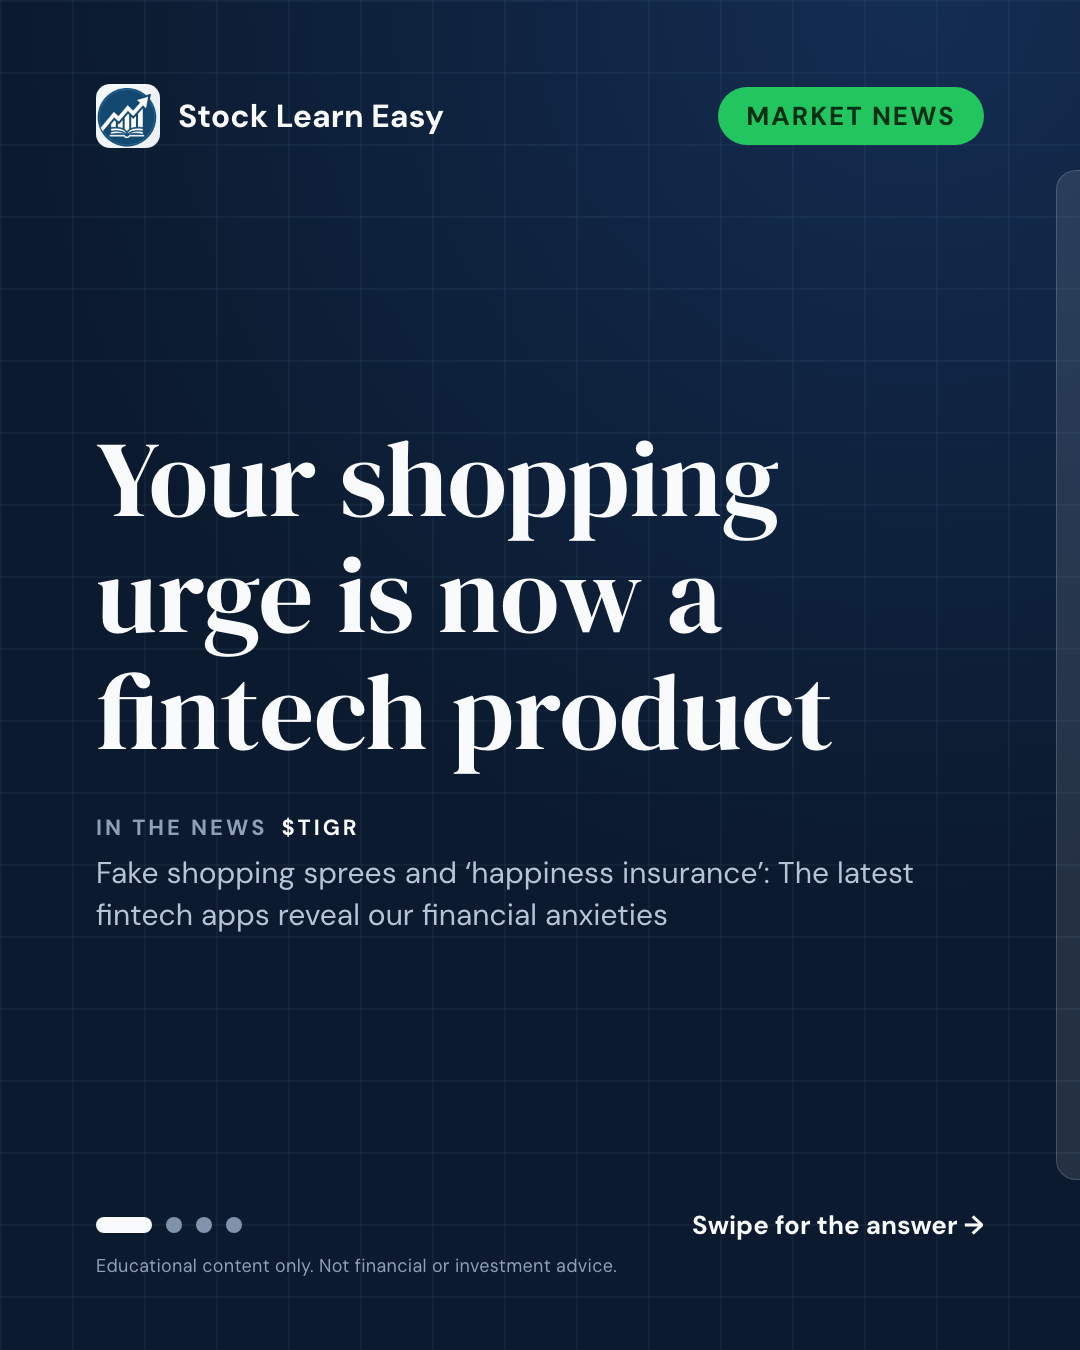
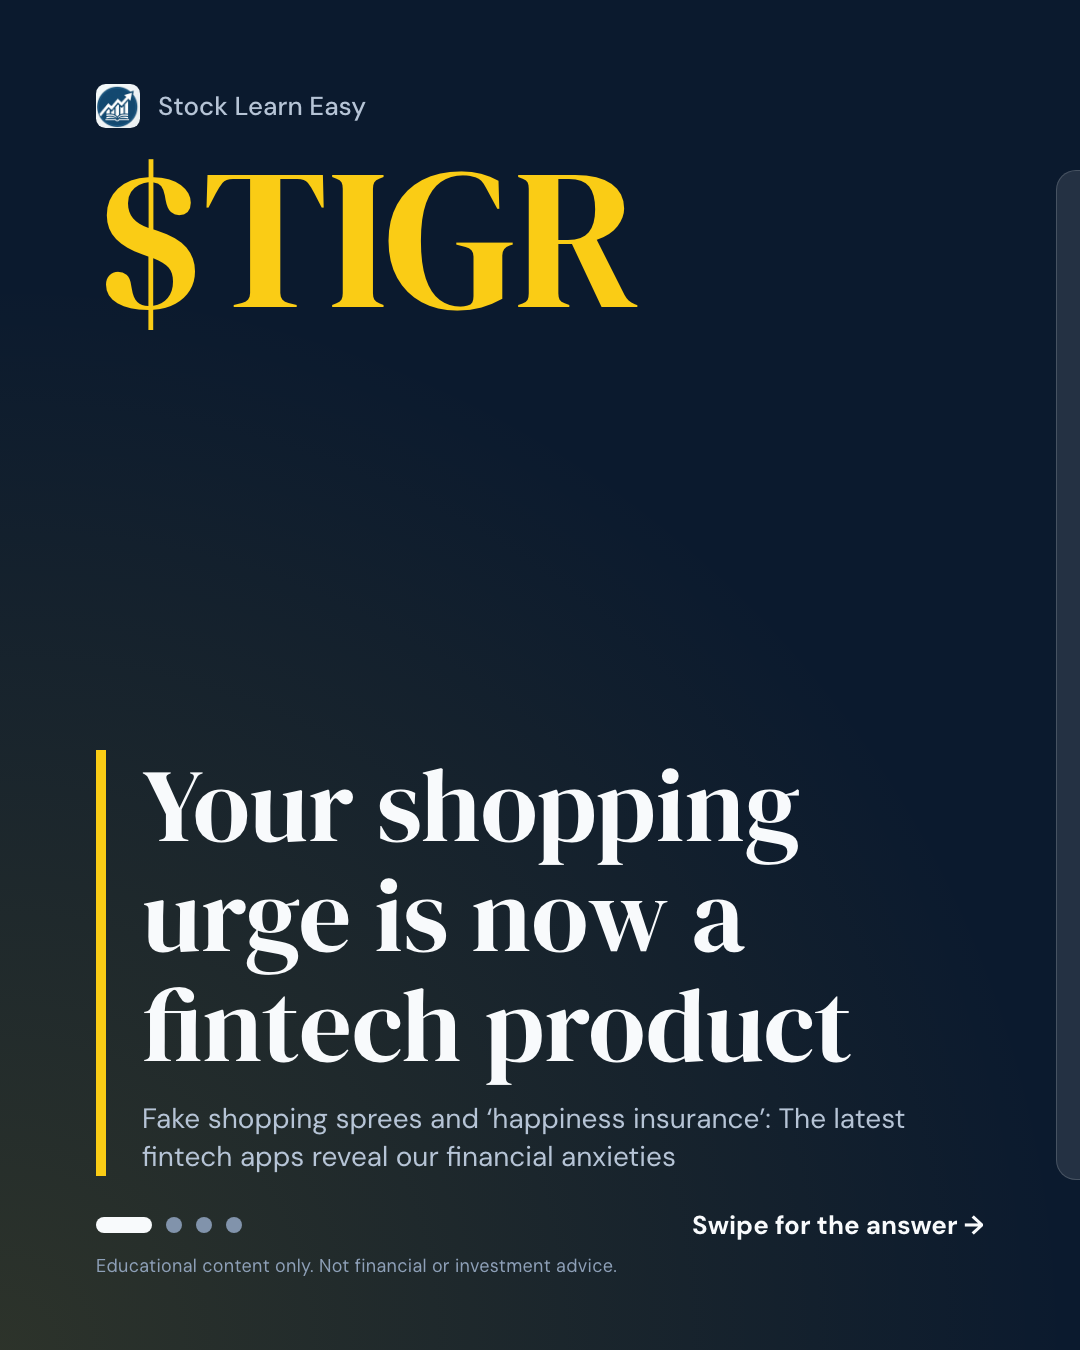
Items 54, 59, 60, 61: template B cover, loop seam, neural voice; card gate accepts both feed sizes

diff --git a/reel.py b/reel.py
@@ -23,6 +23,7 @@ Everything degrades safely: if ffmpeg, Chrome or `say` is missing the
 build raises and the caller falls back to publishing the carousel.
 """
 import json
+import re
 import shutil
 import subprocess
 import sys
@@ -43,7 +44,7 @@ VOICE_RATE = 178          # words per minute; 180ish reads as brisk, not rushed
 VOICE_ENABLED = True
 
 SCENE_MIN_SECONDS = 2.6
-SCENE_MAX_SECONDS = 11.0
+SCENE_MAX_SECONDS = 15.0   # was 11; Kokoro reads a 200-char explain in 12-13s and the cap cut it mid-sentence
 SCENE_TAIL_SECONDS = 0.65  # beat of silence after the line, before the cut
 REEL_MAX_SECONDS = 62.0    # hard ceiling; Instagram allows far more, attention doesn't
 
@@ -253,7 +254,41 @@ def render_frame(html: str, png_path: Path):
 
 # --- audio -------------------------------------------------------------------
 
-def say_to_file(text: str, out_path: Path):
+# Item 61, 18.10.2026: the voice is Kokoro (say-neural.py), the same local
+# neural voice the hand-built episode reels use, and those are the account's
+# best performers (median reach 25 against 4 for news reels; anecdote, not a
+# test). The compact `say` voice is audibly synthetic, which is the fastest
+# tell that a reel was machine-made. `say` stays as the fallback, so a broken
+# Kokoro install costs voice quality, never the reel.
+NEURAL = Path.home() / ".local/bin/say-neural.py"
+NEURAL_VOICE = "af_heart"
+NEURAL_SPEED = "1.08"
+
+
+# Kokoro spells short month names letter by letter ("O-C-T 2023"), which
+# `say` never did. The copy uses them to stay under its length caps.
+_MONTHS = {"Jan": "January", "Feb": "February", "Mar": "March", "Apr": "April",
+           "Jun": "June", "Jul": "July", "Aug": "August", "Sep": "September",
+           "Sept": "September", "Oct": "October", "Nov": "November", "Dec": "December"}
+_MONTH_RE = re.compile(r"\b(" + "|".join(_MONTHS) + r")\.?(?=\s+\d)")
+
+
+def spoken(text: str) -> str:
+    return _MONTH_RE.sub(lambda m: _MONTHS[m.group(1)], text)
+
+
+def say_to_file(text: str, out_path: Path) -> str:
+    """Write the line to out_path. Returns the voice that was used."""
+    text = spoken(text)
+    if NEURAL.exists():
+        try:
+            subprocess.run([str(NEURAL), "--voice", NEURAL_VOICE, "--speed", NEURAL_SPEED,
+                            "--", text, str(out_path)],
+                           check=True, capture_output=True, timeout=180)
+            if out_path.is_file() and out_path.stat().st_size >= 1000:
+                return f"kokoro:{NEURAL_VOICE}"
+        except Exception as e:
+            print(f"neural voice failed, falling back to say: {e}", file=sys.stderr)
     subprocess.run(
         # WAV + signed 16-bit little-endian: `say` refuses float formats in an
         # AIFF container ("Opening output file failed: fmt?"), and 44.1kHz here
@@ -264,6 +299,7 @@ def say_to_file(text: str, out_path: Path):
     )
     if not out_path.is_file() or out_path.stat().st_size < 1000:
         raise ReelError("voiceover produced no audio")
+    return VOICE
 
 
 def audio_seconds(path: Path) -> float:
@@ -362,6 +398,7 @@ def build_reel(out_dir: Path, category, copy, when_utc,
     with tempfile.TemporaryDirectory(prefix="slei-reel-") as tmp:
         work = Path(tmp)
         clips, total = [], 0.0
+        voices_used = set()
 
         for index, scene in enumerate(scenes):
             png = work / f"scene_{index}.png"
@@ -371,7 +408,7 @@ def build_reel(out_dir: Path, category, copy, when_utc,
             seconds = SCENE_MIN_SECONDS
             if VOICE_ENABLED and scene.get("say"):
                 audio = work / f"scene_{index}.wav"
-                say_to_file(scene["say"], audio)
+                voices_used.add(say_to_file(scene["say"], audio))
                 seconds = audio_seconds(audio) + SCENE_TAIL_SECONDS
 
             seconds = min(max(seconds, SCENE_MIN_SECONDS), SCENE_MAX_SECONDS)
@@ -392,10 +429,16 @@ def build_reel(out_dir: Path, category, copy, when_utc,
 
             # No fade-in on the first scene either: frame 0 is what a scrolling
             # viewer sees, and a black frame is a reason to keep scrolling.
+            # Item 60, 18.10.2026: Instagram loops a reel, and the last scene
+            # used to fade to black, so every replay started with a black
+            # frame and a jump into the lit hook, which reads as "it ended".
+            # The last scene now has no fade and always pulls out, so it ends
+            # at zoom 1.0, exactly where the hook scene's push-in begins. The
+            # seam is one clean cut at the same scale.
+            last = index == len(scenes) - 1
             clip = work / f"clip_{index}.mp4"
             build_scene_clip(png, audio, seconds, clip,
-                             push_in=(index % 2 == 0),
-                             fade_out=(index == len(scenes) - 1))
+                             push_in=(index % 2 == 0) and not last)
             clips.append(clip)
             total += seconds
 
@@ -410,7 +453,7 @@ def build_reel(out_dir: Path, category, copy, when_utc,
         json.dumps({
             "duration_seconds": round(duration, 2),
             "scenes": [s["kind"] for s in scenes][:len(clips)],
-            "voice": VOICE if VOICE_ENABLED else None,
+            "voice": ", ".join(sorted(voices_used)) or None,
             "size_bytes": out_path.stat().st_size,
             "cover": "cover.jpg",
             "variant": "short" if short else "full",

diff --git a/generate.py b/generate.py
@@ -706,6 +706,22 @@ def wants_chart_first(slot, chart):
     return bool(chart) and slot is not None and slot.weekday() == 0 and slot.hour >= 15
 
 
+# Backlog item 54 (18.10.2026). The grid audit (item 55) showed what a
+# profile visitor sees: one card repeated, navy grid and logo lockup on every
+# carousel square. Every other 18:00 carousel that is not already one of the
+# weekly tests opens on a second cover instead: no lockup or pill at the top,
+# the ticker or the category set large in yellow, and the hook anchored to the
+# bottom behind a yellow rule. Same navy, same fonts, so it is the brand Ofir
+# picked (item 49 is the separate question of a light ground), just not the
+# same picture twice in a row. Keyed on the calendar day so a rebuild agrees.
+def wants_template_b(slot, chart=None):
+    if slot is None or slot.hour < 15:
+        return False
+    if wants_question_hook(slot) or wants_plain_hook(slot) or wants_chart_first(slot, chart):
+        return False
+    return slot.toordinal() % 2 == 1
+
+
 def post_variant(slot, chart=None):
     if wants_question_hook(slot):
         return "question-hook"
@@ -713,6 +729,8 @@ def post_variant(slot, chart=None):
         return "plain-hook"
     if wants_chart_first(slot, chart):
         return "chart-first"
+    if wants_template_b(slot, chart):
+        return "template-b"
     return None
 
 
@@ -936,6 +954,37 @@ def render_slide_html(kind, position, total, category, when_utc, copy,
         flat = '<style>body { background-image:none; }</style>'
         peek = design.PEEK_HTML if total > 1 else ''
         return design.page(CARD_SIZE, CARD_HEIGHT, CARD_PADDING, f'{flat}{main}{foot}{peek}')
+
+    if kind == "hook" and wants_template_b(when_utc, chart):
+        # The kicker is the ticker when the story has one, else the category,
+        # so it is never decoration: it says what the post is about.
+        kicker = f"${ticker}" if ticker else design.CATEGORY_LABEL.get(category, "MARKET NEWS").title()
+        kicker_px = design.size_for(kicker, [(6, 200), (12, 150), (999, 112)])
+        hook_px = design.size_for(copy["hook"], [(40, 116), (58, 104), (72, 96), (999, 88)])
+        source = term[0] if category == "term" else news["title"]
+        main = (
+            '<div class="main" data-fit-box style="justify-content:space-between;gap:36px;">'
+            '<div style="display:flex;flex-direction:column;gap:14px;">'
+            f'<div class="lockup" style="font-size:26px;color:{design.MUTED};font-weight:500;">'
+            f'<img src="{design.ICON_URI}" width="44" height="44" alt="">Stock Learn Easy</div>'
+            f'<div class="serif num" style="font-size:{kicker_px}px;line-height:0.95;color:{design.HIGHLIGHT};'
+            f'white-space:nowrap;overflow:hidden;">{escape(kicker)}</div>'
+            '</div>'
+            f'<div style="border-left:10px solid {design.HIGHLIGHT};padding-left:36px;'
+            'display:flex;flex-direction:column;gap:20px;">'
+            f'<div class="serif" data-hook data-fit="56" style="font-size:{hook_px}px;line-height:1.06;">'
+            f'{design.highlight_numbers(copy["hook"])}</div>'
+            + ('' if compact else
+               f'<div class="muted" style="font-size:28px;line-height:1.35;">{escape(source)}</div>')
+            + '</div></div>'
+        )
+        foot = _card_foot(position, total, "Swipe for the answer →")
+        # No grid: a warm glow from the bottom left instead of the blue one
+        # top right, so the square reads differently in the grid at 150px.
+        ground = ('<style>body { background-image: radial-gradient(circle at 0% 100%, '
+                  'rgba(250,204,21,0.14), rgba(250,204,21,0) 62%); }</style>')
+        peek = design.PEEK_HTML if total > 1 else ''
+        return design.page(CARD_SIZE, CARD_HEIGHT, CARD_PADDING, f'{ground}{main}{foot}{peek}')
 
     if kind == "hook":
         source = term[0] if category == "term" else news["title"]

diff --git a/card_check.py b/card_check.py
@@ -14,8 +14,11 @@ Two independent checks, either one is enough to catch a bad render:
 """
 from PIL import Image
 
-EXPECTED_SIZE = (1080, 1350)  # 4:5 since 16.10.2026
-CORNERS = [(5, 5), (1075, 5), (5, 1345), (1075, 1345)]
+# 4:5 since 16.10.2026. The square size stays legal: the 16.10 switch left
+# one square slot in the queue and this gate threw it into rejected/, losing
+# the 16.10 18:00 post. Both are real Instagram feed sizes; the gate exists to
+# catch an error page, not to enforce a format change on cards already queued.
+EXPECTED_SIZES = {(1080, 1350), (1080, 1080)}
 MAX_CORNER_BRIGHTNESS = 200
 
 
@@ -27,11 +30,12 @@ def is_valid_card(png_path):
     except Exception as e:
         return False, f"unreadable image: {e}"
 
-    if im.size != EXPECTED_SIZE:
-        return False, f"unexpected size {im.size}, expected {EXPECTED_SIZE}"
+    if im.size not in EXPECTED_SIZES:
+        return False, f"unexpected size {im.size}, expected one of {sorted(EXPECTED_SIZES)}"
 
     im = im.convert("RGB")
-    for pt in CORNERS:
+    w, h = im.size
+    for pt in [(5, 5), (w - 5, 5), (5, h - 5), (w - 5, h - 5)]:
         r, g, b = im.getpixel(pt)
         brightness = (r + g + b) / 3
         if brightness > MAX_CORNER_BRIGHTNESS:

diff --git a/winners.py b/winners.py
@@ -52,7 +52,10 @@ def shape(slot):
         # lengths would be averaged into one number and never compared.
         kind = "short news reel" if reel.get("variant") == "short" else "news reel"
     else:
-        kind = "carousel"
+        # Carousel tests (items 13, 14, 41, 54) are their own shapes for the
+        # same reason as the short reel.
+        variant = (src or {}).get("variant")
+        kind = f"carousel, {variant}" if variant else "carousel"
     return {
         "kind": kind,
         "category": (src or {}).get("category") or (reel or {}).get("episode", "?"),

diff --git a/IMPROVEMENTS.md b/IMPROVEMENTS.md
@@ -127,3 +127,11 @@ One improvement per run of `stocklearneasy-ig-improve`. Read before choosing.
 - **Item 58:** checked on a queued reel's frame 0, the hook is on screen. No change.
 - Noticed while reading: the 10.10 reel (reach 53) shipped with a bogus `ILI.V` chart at -25%. The current resolver returns nothing for that headline, so the 12.10 fix already covers it.
 - **Numbers (7d):** 3 followers, 9 posts, reach 27, views 45, 3 likes, 0 comments, saves or shares. Down from 69 only because the 10.10 reel at 53 left the 7-day window; every post is still 1 to 12. Nothing credited.
+
+## 2026-10-18: a lost slot traced, then items 54, 59, 60 and 61
+- **The 16.10 18:00 post never went out.** The 16.10 run moved carousels to 1080x1350 and changed card_check to expect only that size, but left the 16.10 18:00 slot square "because it was publishing". It was not yet; the cloud's card gate rejected it at 18:04 UTC and moved it to rejected/. card_check now accepts both 1080x1350 and 1080x1080 (both real feed sizes; the gate exists to catch an error page) and samples corners from the real image size. Lesson: a format change must not tighten the gate on cards already queued.
+- **Item 54, in the renderer:** template B for every other 18:00 carousel that is not already a weekly test. Ticker (or category) large in yellow, hook anchored low behind a yellow rule, no lockup row or pill, warm glow instead of the grid. Variant `template-b`, and winners.md now splits carousels by variant. 20.10 18:00 rebuilt ($TIGR, hook 14.4px at thumbnail). 18.10 18:00 left alone, it was publishing as this ran.
+- **Item 59:** checked, not changed. Every spoken line is already on screen.
+- **Item 60:** no fade to black at the end; the last scene pulls out to zoom 1.0 where the hook starts, so the loop seam is one clean cut.
+- **Item 61:** reels speak in Kokoro af_heart, `say` as fallback. Two defects found by transcribing the result back: Kokoro spelled "Oct" as letters (months now expanded), and it reads an explain in 12 to 13s, so the 11s scene cap cut it mid-sentence (cap 15s, speed 1.08). Both queued reels rebuilt, re-uploaded and transcribed.
+- **Numbers (7d):** 3 followers, 10 posts, reach 36, views 58, 3 likes, 0 comments, saves or shares. Every post 1 to 12. Nothing credited.

diff --git a/metrics/winners.md b/metrics/winners.md
@@ -1,14 +1,14 @@
 # Above-median posts (backlog item 19)
 
-Generated by winners.py from the 2026-10-17..2026-10-17 snapshots. 57 posts, median reach 2.
+Generated by winners.py from the 2026-10-17..2026-10-18 snapshots. 59 posts, median reach 2.
 
 Copy the structure, never the topic. A shape with fewer than 10 posts is an anecdote (item 86).
 
 ## Median reach by shape
 
 - episode reel: median 16.5 over 4 posts (too few to conclude)
-- news reel: median 4 over 16 posts
-- carousel: median 2 over 37 posts
+- news reel: median 5 over 17 posts
+- carousel: median 1.5 over 38 posts
 
 ## Above the median
 
@@ -17,6 +17,7 @@ Copy the structure, never the topic. A shape with fewer than 10 posts is an anec
 - 2026-10-04T0940 reach 25, shares 0, saves 0: episode reel, 20.5s, bull-bear, question hook. "Why a bull, and why a bear?"
 - 2026-10-04T1200 reach 12, shares 0, saves 0: news reel, 26.75s, macro, question hook. "Why do high rates make retirement paychecks bigger?"
 - 2026-10-16T1200 reach 12, shares 0, saves 0: news reel, 28.13s, movers. "A fatal ride sank $FUN near 17-year lows"
+- 2026-10-17T1200 reach 9, shares 0, saves 0: news reel, 22.96s, term. "Why a 10% yield can mean trouble"
 - 2026-10-03T0930 reach 8, shares 0, saves 0: episode reel, 20.5s, correction, question hook. "Ten percent, or twenty?"
 - 2026-10-05T1200 reach 7, shares 0, saves 0: news reel, 28.65s, macro. "Last time this mix hit, stocks nearly halved"
 - 2026-10-09T1200 reach 7, shares 0, saves 0: news reel, 20.62s, term, question hook. "Is that big price jump real or noise?"
